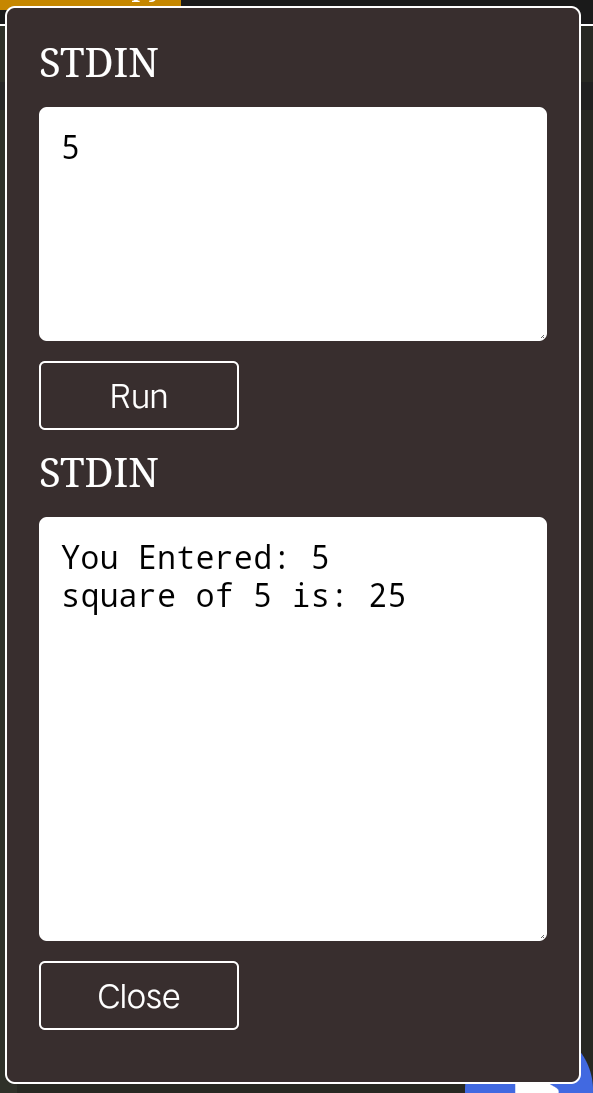
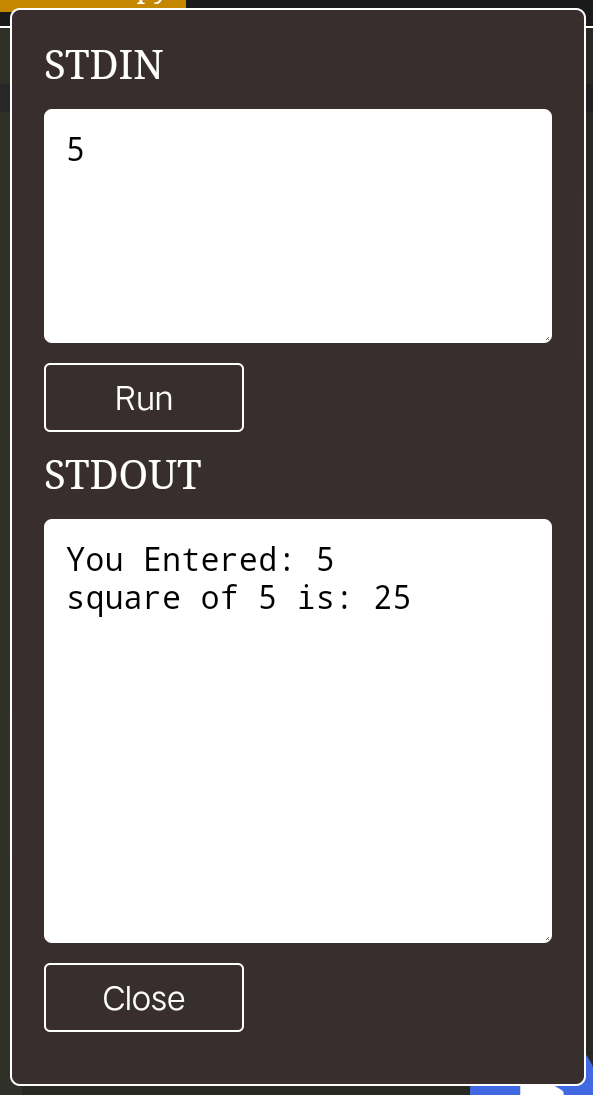
bug fix

diff --git a/src/components/Home/home.css b/src/components/Home/home.css
@@ -5,26 +5,26 @@
   padding: 20px 10px;
 }
 
-a {
+.home a {
   text-decoration: none;
   color: var(--home-link);
 }
 
-a:hover {
+.home a:hover {
   text-decoration: underline;
 }
 
-p {
+.home p {
   line-height: 1.2em;
   margin: 10px 0;
 }
 
-img {
+.home img {
   height: 100%;
   width: 100%;
 }
 
-hr {
+.home hr {
   width: calc(100% - 2rem);
   max-width: 780px;
   margin: 0 auto;
@@ -32,7 +32,7 @@ hr {
   background-color: hsl(0,0%,75%);
 }
 
-.logo {
+.home .logo {
   width: 250px;
   height: 170px;
   border: 1px solid var(--home-img-border);
@@ -41,35 +41,35 @@ hr {
   overflow: hidden;
 }
 
-.title {
+.home .title {
   text-align: center;
   padding: 20px 0;
 }
 
-.title h1,.title h3 {
+.home .title h1,.home .title h3 {
   margin: 0;
 }
 
-section {
+.home section {
   padding: 20px 1rem;
   max-width: 800px;
   margin: 0 auto;
   /* border: 1px solid red; */
 }
 
-section h3,section h4 {
+.home section h3,.home section h4 {
   margin: 10px 0;
 }
 
-li {
+.home li {
   margin: .4em 0;
 }
 
-.content:first-letter {
+.home .content:first-letter {
   margin-left: 1.5em;
 }
 
-.img-wrapper {
+.home .img-wrapper {
   height: 250px;
   width: 180px;
   border: 1px solid var(--home-img-border);
@@ -78,6 +78,6 @@ li {
   margin: 1em auto;
 }
 
-section li a {
+.home section li a {
   font-weight: bold;
 }

diff --git a/src/components/Executer/index.js b/src/components/Executer/index.js
@@ -39,7 +39,7 @@ export default function Exec() {
       <label htmlFor="std-in">STDIN</label>
       <textarea rows="5" id="std-in" value={input} onChange={e=>setInput(e.target.value)}/>
       <button onClick={execute}>Run</button>
-      <label htmlFor="std-out">STDIN</label>
+      <label htmlFor="std-out">STDOUT</label>
       <textarea rows="10" id="std-out" value={output} readOnly/>
       <button onClick={()=>setInputBox(false)}>Close</button>
     </div>:<></>

diff --git a/src/components/App.css b/src/components/App.css
@@ -6,6 +6,7 @@ html,body,#root {
   scroll-behavior: smooth;
   -ms-overflow-style: none;
   scrollbar-width: none;
+  background-color: black;
 }
 
 html {
@@ -53,8 +54,8 @@ body[data-theme='dark'] {
 
 .editor-wrapper {
   width: 100%;
-  height: 100%;
   height: calc(100% - 50px);
+  min-height: calc(100% - 50px);
 }
 
 .no-file {

diff --git a/src/components/Sidebar/settings.css b/src/components/Sidebar/settings.css
@@ -14,6 +14,12 @@
   white-space: nowrap;
   padding-right: 10px;
   width: calc(100% - 2em);
+  -ms-overflow-style: none;
+  scrollbar-width: none;
+}
+
+.settings-label p:first-of-type::-webkit-scrollbar {
+  display: none;
 }
 
 .switch div {

diff --git a/src/components/Sidebar/tab.css b/src/components/Sidebar/tab.css
@@ -41,8 +41,8 @@
 }
 
 
-@media screen and (max-width: 300px) { 
-.tab-hidden {
-  padding-left: 0;
-}
+@media screen and (max-width: 300px) {
+  .tab-hidden {
+    padding-left: 0;
+  }
 }
